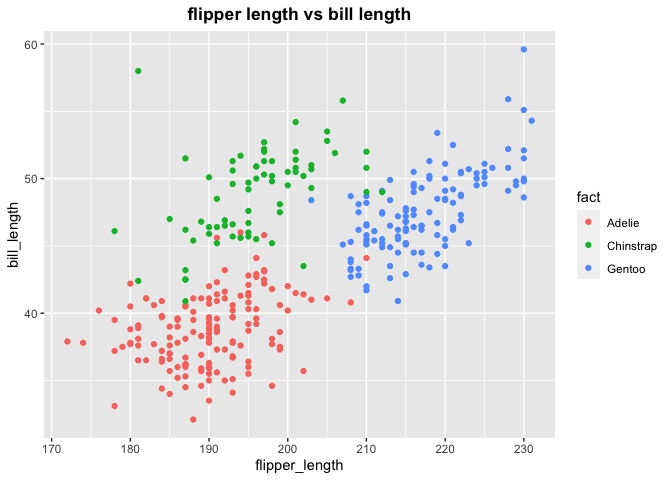
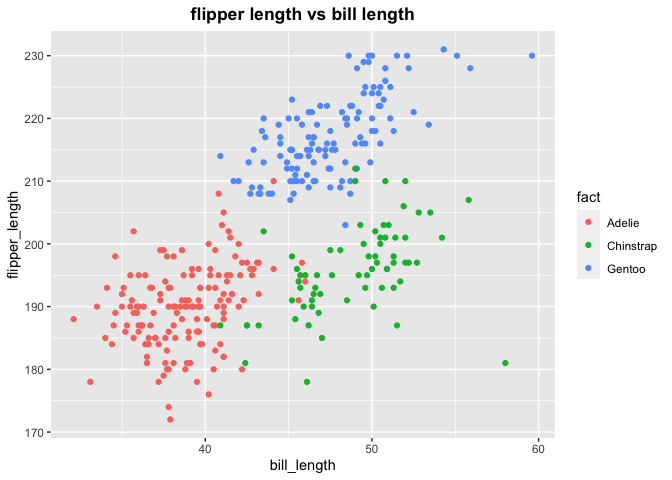
hide output

diff --git a/hw1-az2587.md b/hw1-az2587.md
@@ -54,23 +54,9 @@ we got NAs for these two columns.
 
 ``` r
 as.numeric(df$x_2)
-```
-
-    ##  [1] 0 0 1 1 1 1 1 0 0 0
-
-``` r
 as.numeric(df$x_3)
-```
-
-    ## Warning: NAs introduced by coercion
-
-    ##  [1] NA NA NA NA NA NA NA NA NA NA
-
-``` r
 as.numeric(df$x_4)
 ```
-
-    ##  [1] 1 2 3 2 3 1 1 3 2 1
 
 Logical vectors can be converted to numeric form with values 0 and 1;
 character values cannot be converted to numeric forms and thus return
@@ -124,7 +110,7 @@ plot_df <- tibble(
 ```
 
 ``` r
-plot <- ggplot(plot_df, aes(x = flipper_length, y = bill_length, color = fact)) + geom_point() + labs(title = "flipper length vs bill length") + theme(plot.title = element_text(face = "bold", hjust = 0.5))
+plot <- ggplot(plot_df, aes(x = bill_length, y = flipper_length, color = fact)) + geom_point() + labs(title = "flipper length vs bill length") + theme(plot.title = element_text(face = "bold", hjust = 0.5))
 print(plot)
 ```
 
